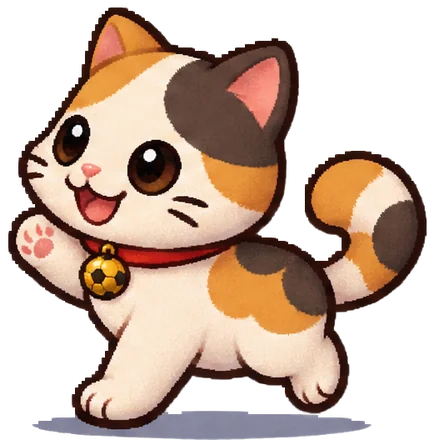
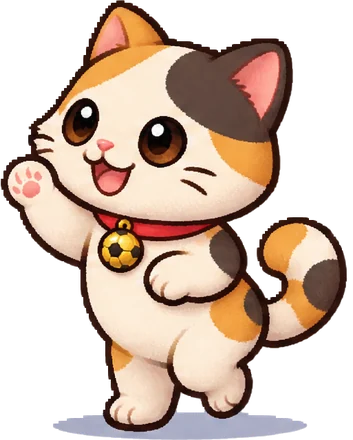
Lenda do Campinho v373: Sortudo em pé (4 patas) e o ∞ das Caneleiras do Infinito

diff --git a/frontend/public/lenda-do-campinho/index.html b/frontend/public/lenda-do-campinho/index.html
@@ -11,8 +11,8 @@
 <link rel="preconnect" href="https://fonts.googleapis.com">
 <link rel="preconnect" href="https://fonts.gstatic.com" crossorigin>
 <link href="https://fonts.googleapis.com/css2?family=Fredoka:wght@500;600;700&family=Nunito:wght@600;700;800&display=swap" rel="stylesheet">
-<link rel="stylesheet" href="css/style.css?v=372">
-<link rel="stylesheet" href="css/inicio.css?v=372">
+<link rel="stylesheet" href="css/style.css?v=373">
+<link rel="stylesheet" href="css/inicio.css?v=373">
 <link rel="icon" href="https://www.educacaogamer.com.br/favicon.png">
 <link rel="manifest" href="manifest.webmanifest">
 <link rel="apple-touch-icon" href="a/icone_192.png">
@@ -158,166 +158,166 @@
   </div>
 </div>
 
-<script src="js/confirma.js?v=372"></script>
-<script src="js/data.js?v=372"></script>
-<script src="js/arte.js?v=372"></script>
-<script src="js/assets.js?v=372"></script>
-<script src="js/world.js?v=372"></script>
-<script src="js/game.js?v=372"></script>
-<script src="js/roupas.js?v=372"></script>
-<script src="js/europa.js?v=372"></script>
-<script src="js/cidades.js?v=372"></script>
-<script src="js/santos_mapa.js?v=372"></script>
-<script src="js/espalha.js?v=372"></script>
-<script src="js/centrinho.js?v=372"></script>
-<script src="js/team.js?v=372"></script>
-<script src="js/copa.js?v=372"></script>
-<script src="js/carreira.js?v=372"></script>
-<script src="js/historia.js?v=372"></script>
-<script src="js/ui.js?v=372"></script>
-<script src="js/penalti.js?v=372"></script>
-<script src="js/bonecos_meta.js?v=372"></script>
-<script src="js/boneco.js?v=372"></script>
-<script src="js/clima.js?v=372"></script>
-<script src="js/itens.js?v=372"></script>
-<script src="js/layout.js?v=372"></script>
-<script src="js/backup.js?v=372"></script>
-<script src="js/minimapa.js?v=372"></script>
-<script src="js/audio.js?v=372"></script>
-<script src="js/jogadas.js?v=372"></script>
-<script src="js/arenas.js?v=372"></script>
-<script src="js/montarias.js?v=372"></script>
-<script src="js/armazem.js?v=372"></script>
-<script src="js/casas.js?v=372"></script>
-<script src="js/celular.js?v=372"></script>
-<script src="js/celular2.js?v=372"></script>
-<script src="js/beta.js?v=372"></script>
-<script src="js/portal.js?v=372"></script>
-<script src="js/nuvem.js?v=372"></script>
-<script src="js/contas.js?v=372"></script><script src="js/sessao_unica.js?v=372"></script>
-<script src="js/protege.js?v=372"></script>
-<script src="js/topo.js?v=372"></script>
-<script src="js/sair.js?v=372"></script>
-<script src="js/lances.js?v=372"></script>
-<script src="js/vocacoes.js?v=372"></script>
-<script src="js/tela.js?v=372"></script>
-<script src="js/agua.js?v=372"></script>
-<script src="js/vento.js?v=372"></script>
-<script src="js/wiki.js?v=372"></script>
-<script src="js/personagens.js?v=372"></script>
-<script src="js/teclas.js?v=372"></script>
-<script src="js/variedade.js?v=372"></script>
-<script src="js/bonecos_meta2.js?v=372"></script>
-<script src="js/bonecos_meta3.js?v=372"></script>
-<script src="js/bonecos_meta4.js?v=372"></script>
-<script src="js/corpos.js?v=372"></script>
-<script src="js/fx.js?v=372"></script>
-<script src="js/cacadas.js?v=372"></script>
-<script src="js/atlantida.js?v=372"></script>
-<script src="js/espaco.js?v=372"></script>
-<script src="js/vale.js?v=372"></script>
-<script src="js/treino.js?v=372"></script>
-<script src="js/cadastro.js?v=372"></script>
-<script src="js/montaria_arte.js?v=372"></script>
-<script src="js/luxo.js?v=372"></script>
-<script src="js/divulgar.js?v=372"></script>
-<script src="js/corrida.js?v=372"></script><script src="js/estadios.js?v=372"></script><script src="js/monumentos.js?v=372"></script><script src="js/ruas.js?v=372"></script><script src="js/ambiente.js?v=372"></script><script src="js/conquistas.js?v=372"></script><script src="js/rastreador.js?v=372"></script><script src="js/alertas.js?v=372"></script><script src="js/ondeachar.js?v=372"></script><script src="js/time_guia.js?v=372"></script><script src="js/jogadas_info.js?v=372"></script><script src="js/dribles_nivel.js?v=372"></script><script src="js/pocoes.js?v=372"></script><script src="js/analisador.js?v=372"></script><script src="js/tarefas.js?v=372"></script><script src="js/diaria.js?v=372"></script><script src="js/avisos.js?v=372"></script><script src="js/saida_trancada.js?v=372"></script><script src="js/cidade_arrumada.js?v=372"></script><script src="js/partida.js?v=372"></script><script src="js/centros_treino.js?v=372"></script><script src="js/grade.js?v=372"></script><script src="js/zona_segura.js?v=372"></script><script src="js/minha_classe.js?v=372"></script>
-<script src="js/app_windows.js?v=372"></script>
-<script src="js/inicio.js?v=372"></script>
-<script src="js/top3.js?v=372"></script>
-<script src="js/gravacao.js?v=372"></script>
-<script src="js/massagistas.js?v=372"></script>
-<script src="js/arquibancadas.js?v=372"></script>
-<script src="js/asas.js?v=372"></script>
-<script src="js/carreira_metas.js?v=372"></script>
-<script src="js/arquetipos.js?v=372"></script>
-<script src="js/magias_adv.js?v=372"></script>
-<script src="js/santos.js?v=372"></script>
-<script src="js/arcos.js?v=372"></script>
-<script src="js/luz.js?v=372"></script>
-<script src="js/clube_mais.js?v=372"></script>
-<script src="js/compacto.js?v=372"></script>
-<script src="js/ajustes_ui.js?v=372"></script>
-<script src="js/volta_v258.js?v=372"></script>
-<script src="js/cidades_vivas.js?v=372"></script>
-<script src="js/cidades_novas.js?v=372"></script>
-<script src="js/dungeons_novas.js?v=372"></script>
-<script src="js/vila_nova.js?v=372"></script>
-<script src="js/brasil_vivo.js?v=372"></script>
-<script src="js/armazem_forja.js?v=372"></script>
-<script src="js/tarefas_loja.js?v=372"></script>
-<script src="js/carreira_jogos.js?v=372"></script>
-<script src="js/carreira_futebol.js?v=372"></script>
-<script src="js/lendas.js?v=372"></script>
-<script src="js/mapa_marca.js?v=372"></script>
-<script src="js/missoes_colecao.js?v=372"></script>
-<script src="js/espaco_novo.js?v=372"></script>
-<script src="js/pontes.js?v=372"></script>
-<script src="js/futebol_dicas.js?v=372"></script>
-<script src="js/visual_itens.js?v=372"></script>
-<script src="js/balanco_xp.js?v=372"></script>
-<script src="js/santos_jogadores.js?v=372"></script>
-<script src="js/pescoco_arte.js?v=372"></script>
-<script src="js/fps.js?v=372"></script>
-<script src="js/adornos.js?v=372"></script>
-<script src="js/adornos2.js?v=372"></script>
-<script src="js/desempenho.js?v=372"></script>
-<script src="js/roupas_tecidos.js?v=372"></script>
-<script src="js/chapeus_arte.js?v=372"></script>
-<script src="js/cacas_calmas.js?v=372"></script>
-<script src="js/viagens_equip.js?v=372"></script>
-<script src="js/bichos_vivos.js?v=372"></script>
-<script src="js/economia_ouro.js?v=372"></script>
-<script src="js/multiverso.js?v=372"></script>
-<script src="js/bichos_malvados.js?v=372"></script>
-<script src="js/torre_infinita.js?v=372"></script>
-<script src="js/torre_desafio.js?v=372"></script>
-<script src="js/xp_alto_nivel.js?v=372"></script>
-<script src="js/carreira_simula.js?v=372"></script>
-<script src="js/celular3.js?v=372"></script>
-<script src="js/graficos.js?v=372"></script>
-<script src="js/treino_fundo.js?v=372"></script>
-<script src="js/aquece.js?v=372"></script>
-<script src="js/memoria_mapas.js?v=372"></script>
-<script src="js/agencia.js?v=372"></script>
-<script src="js/modos_finalizados.js?v=372"></script>
-<script src="js/guardioes_lenda.js?v=372"></script>
-<script src="js/icones_vivos.js?v=372"></script>
-<script src="js/retratos_bichos.js?v=372"></script>
-<script src="js/portas_ima.js?v=372"></script>
-<script src="js/agencia_escritorio.js?v=372"></script>
-<script src="js/agencia_modelo.js?v=372"></script>
-<script src="js/agencia_semana.js?v=372"></script>
-<script src="js/agencia_familia.js?v=372"></script>
-<script src="js/agencia_desenvolvimento.js?v=372"></script>
-<script src="js/agencia_carreira.js?v=372"></script>
-<script src="js/agencia_eventos.js?v=372"></script>
-<script src="js/agencia_reputacao.js?v=372"></script>
-<script src="js/padrao_itens.js?v=372"></script>
-<script src="js/itens_marcas.js?v=372"></script>
-<script src="js/mochilas.js?v=372"></script>
-<script src="js/loot_regioes.js?v=372"></script>
-<script src="js/tela_paineis.js?v=372"></script>
-<script src="js/forja_previa.js?v=372"></script>
-<script src="js/chefes_missoes.js?v=372"></script>
-<script src="js/missoes_org.js?v=372"></script>
-<script src="js/saga_origem.js?v=372"></script>
-<script src="js/jurassico.js?v=372"></script>
-<script src="js/museu.js?v=372"></script>
-<script src="js/missoes_sonhadores.js?v=372"></script>
-<script src="js/historico.js?v=372"></script>
-<script src="js/brilho_refino.js?v=372"></script>
-<script src="js/mascotes.js?v=372"></script>
-<script src="js/cacada_epica.js?v=372"></script>
-<script src="js/carga_rapida.js?v=372"></script>
-<script src="js/fila_avisos.js?v=372"></script>
-<script src="js/objetivo_agora.js?v=372"></script>
-<script src="js/chefes_vivos.js?v=372"></script>
-<script src="js/estatisticas.js?v=372"></script>
-<script src="js/amigos_lenda.js?v=372"></script>
-<script src="js/controle.js?v=372"></script>
-<script src="js/torre_coop.js?v=372"></script>
-<script src="js/arenas_predios.js?v=372"></script>
-<script src="js/versao_nova.js?v=372"></script>
+<script src="js/confirma.js?v=373"></script>
+<script src="js/data.js?v=373"></script>
+<script src="js/arte.js?v=373"></script>
+<script src="js/assets.js?v=373"></script>
+<script src="js/world.js?v=373"></script>
+<script src="js/game.js?v=373"></script>
+<script src="js/roupas.js?v=373"></script>
+<script src="js/europa.js?v=373"></script>
+<script src="js/cidades.js?v=373"></script>
+<script src="js/santos_mapa.js?v=373"></script>
+<script src="js/espalha.js?v=373"></script>
+<script src="js/centrinho.js?v=373"></script>
+<script src="js/team.js?v=373"></script>
+<script src="js/copa.js?v=373"></script>
+<script src="js/carreira.js?v=373"></script>
+<script src="js/historia.js?v=373"></script>
+<script src="js/ui.js?v=373"></script>
+<script src="js/penalti.js?v=373"></script>
+<script src="js/bonecos_meta.js?v=373"></script>
+<script src="js/boneco.js?v=373"></script>
+<script src="js/clima.js?v=373"></script>
+<script src="js/itens.js?v=373"></script>
+<script src="js/layout.js?v=373"></script>
+<script src="js/backup.js?v=373"></script>
+<script src="js/minimapa.js?v=373"></script>
+<script src="js/audio.js?v=373"></script>
+<script src="js/jogadas.js?v=373"></script>
+<script src="js/arenas.js?v=373"></script>
+<script src="js/montarias.js?v=373"></script>
+<script src="js/armazem.js?v=373"></script>
+<script src="js/casas.js?v=373"></script>
+<script src="js/celular.js?v=373"></script>
+<script src="js/celular2.js?v=373"></script>
+<script src="js/beta.js?v=373"></script>
+<script src="js/portal.js?v=373"></script>
+<script src="js/nuvem.js?v=373"></script>
+<script src="js/contas.js?v=373"></script><script src="js/sessao_unica.js?v=373"></script>
+<script src="js/protege.js?v=373"></script>
+<script src="js/topo.js?v=373"></script>
+<script src="js/sair.js?v=373"></script>
+<script src="js/lances.js?v=373"></script>
+<script src="js/vocacoes.js?v=373"></script>
+<script src="js/tela.js?v=373"></script>
+<script src="js/agua.js?v=373"></script>
+<script src="js/vento.js?v=373"></script>
+<script src="js/wiki.js?v=373"></script>
+<script src="js/personagens.js?v=373"></script>
+<script src="js/teclas.js?v=373"></script>
+<script src="js/variedade.js?v=373"></script>
+<script src="js/bonecos_meta2.js?v=373"></script>
+<script src="js/bonecos_meta3.js?v=373"></script>
+<script src="js/bonecos_meta4.js?v=373"></script>
+<script src="js/corpos.js?v=373"></script>
+<script src="js/fx.js?v=373"></script>
+<script src="js/cacadas.js?v=373"></script>
+<script src="js/atlantida.js?v=373"></script>
+<script src="js/espaco.js?v=373"></script>
+<script src="js/vale.js?v=373"></script>
+<script src="js/treino.js?v=373"></script>
+<script src="js/cadastro.js?v=373"></script>
+<script src="js/montaria_arte.js?v=373"></script>
+<script src="js/luxo.js?v=373"></script>
+<script src="js/divulgar.js?v=373"></script>
+<script src="js/corrida.js?v=373"></script><script src="js/estadios.js?v=373"></script><script src="js/monumentos.js?v=373"></script><script src="js/ruas.js?v=373"></script><script src="js/ambiente.js?v=373"></script><script src="js/conquistas.js?v=373"></script><script src="js/rastreador.js?v=373"></script><script src="js/alertas.js?v=373"></script><script src="js/ondeachar.js?v=373"></script><script src="js/time_guia.js?v=373"></script><script src="js/jogadas_info.js?v=373"></script><script src="js/dribles_nivel.js?v=373"></script><script src="js/pocoes.js?v=373"></script><script src="js/analisador.js?v=373"></script><script src="js/tarefas.js?v=373"></script><script src="js/diaria.js?v=373"></script><script src="js/avisos.js?v=373"></script><script src="js/saida_trancada.js?v=373"></script><script src="js/cidade_arrumada.js?v=373"></script><script src="js/partida.js?v=373"></script><script src="js/centros_treino.js?v=373"></script><script src="js/grade.js?v=373"></script><script src="js/zona_segura.js?v=373"></script><script src="js/minha_classe.js?v=373"></script>
+<script src="js/app_windows.js?v=373"></script>
+<script src="js/inicio.js?v=373"></script>
+<script src="js/top3.js?v=373"></script>
+<script src="js/gravacao.js?v=373"></script>
+<script src="js/massagistas.js?v=373"></script>
+<script src="js/arquibancadas.js?v=373"></script>
+<script src="js/asas.js?v=373"></script>
+<script src="js/carreira_metas.js?v=373"></script>
+<script src="js/arquetipos.js?v=373"></script>
+<script src="js/magias_adv.js?v=373"></script>
+<script src="js/santos.js?v=373"></script>
+<script src="js/arcos.js?v=373"></script>
+<script src="js/luz.js?v=373"></script>
+<script src="js/clube_mais.js?v=373"></script>
+<script src="js/compacto.js?v=373"></script>
+<script src="js/ajustes_ui.js?v=373"></script>
+<script src="js/volta_v258.js?v=373"></script>
+<script src="js/cidades_vivas.js?v=373"></script>
+<script src="js/cidades_novas.js?v=373"></script>
+<script src="js/dungeons_novas.js?v=373"></script>
+<script src="js/vila_nova.js?v=373"></script>
+<script src="js/brasil_vivo.js?v=373"></script>
+<script src="js/armazem_forja.js?v=373"></script>
+<script src="js/tarefas_loja.js?v=373"></script>
+<script src="js/carreira_jogos.js?v=373"></script>
+<script src="js/carreira_futebol.js?v=373"></script>
+<script src="js/lendas.js?v=373"></script>
+<script src="js/mapa_marca.js?v=373"></script>
+<script src="js/missoes_colecao.js?v=373"></script>
+<script src="js/espaco_novo.js?v=373"></script>
+<script src="js/pontes.js?v=373"></script>
+<script src="js/futebol_dicas.js?v=373"></script>
+<script src="js/visual_itens.js?v=373"></script>
+<script src="js/balanco_xp.js?v=373"></script>
+<script src="js/santos_jogadores.js?v=373"></script>
+<script src="js/pescoco_arte.js?v=373"></script>
+<script src="js/fps.js?v=373"></script>
+<script src="js/adornos.js?v=373"></script>
+<script src="js/adornos2.js?v=373"></script>
+<script src="js/desempenho.js?v=373"></script>
+<script src="js/roupas_tecidos.js?v=373"></script>
+<script src="js/chapeus_arte.js?v=373"></script>
+<script src="js/cacas_calmas.js?v=373"></script>
+<script src="js/viagens_equip.js?v=373"></script>
+<script src="js/bichos_vivos.js?v=373"></script>
+<script src="js/economia_ouro.js?v=373"></script>
+<script src="js/multiverso.js?v=373"></script>
+<script src="js/bichos_malvados.js?v=373"></script>
+<script src="js/torre_infinita.js?v=373"></script>
+<script src="js/torre_desafio.js?v=373"></script>
+<script src="js/xp_alto_nivel.js?v=373"></script>
+<script src="js/carreira_simula.js?v=373"></script>
+<script src="js/celular3.js?v=373"></script>
+<script src="js/graficos.js?v=373"></script>
+<script src="js/treino_fundo.js?v=373"></script>
+<script src="js/aquece.js?v=373"></script>
+<script src="js/memoria_mapas.js?v=373"></script>
+<script src="js/agencia.js?v=373"></script>
+<script src="js/modos_finalizados.js?v=373"></script>
+<script src="js/guardioes_lenda.js?v=373"></script>
+<script src="js/icones_vivos.js?v=373"></script>
+<script src="js/retratos_bichos.js?v=373"></script>
+<script src="js/portas_ima.js?v=373"></script>
+<script src="js/agencia_escritorio.js?v=373"></script>
+<script src="js/agencia_modelo.js?v=373"></script>
+<script src="js/agencia_semana.js?v=373"></script>
+<script src="js/agencia_familia.js?v=373"></script>
+<script src="js/agencia_desenvolvimento.js?v=373"></script>
+<script src="js/agencia_carreira.js?v=373"></script>
+<script src="js/agencia_eventos.js?v=373"></script>
+<script src="js/agencia_reputacao.js?v=373"></script>
+<script src="js/padrao_itens.js?v=373"></script>
+<script src="js/itens_marcas.js?v=373"></script>
+<script src="js/mochilas.js?v=373"></script>
+<script src="js/loot_regioes.js?v=373"></script>
+<script src="js/tela_paineis.js?v=373"></script>
+<script src="js/forja_previa.js?v=373"></script>
+<script src="js/chefes_missoes.js?v=373"></script>
+<script src="js/missoes_org.js?v=373"></script>
+<script src="js/saga_origem.js?v=373"></script>
+<script src="js/jurassico.js?v=373"></script>
+<script src="js/museu.js?v=373"></script>
+<script src="js/missoes_sonhadores.js?v=373"></script>
+<script src="js/historico.js?v=373"></script>
+<script src="js/brilho_refino.js?v=373"></script>
+<script src="js/mascotes.js?v=373"></script>
+<script src="js/cacada_epica.js?v=373"></script>
+<script src="js/carga_rapida.js?v=373"></script>
+<script src="js/fila_avisos.js?v=373"></script>
+<script src="js/objetivo_agora.js?v=373"></script>
+<script src="js/chefes_vivos.js?v=373"></script>
+<script src="js/estatisticas.js?v=373"></script>
+<script src="js/amigos_lenda.js?v=373"></script>
+<script src="js/controle.js?v=373"></script>
+<script src="js/torre_coop.js?v=373"></script>
+<script src="js/arenas_predios.js?v=373"></script>
+<script src="js/versao_nova.js?v=373"></script>
 </body>
 </html>

diff --git a/frontend/public/lenda-do-campinho/js/brilho_refino.js b/frontend/public/lenda-do-campinho/js/brilho_refino.js
@@ -92,7 +92,37 @@
     if (r >= 7) { const per = r >= 10 ? 900 : r === 9 ? 1400 : r === 8 ? 2000 : 2800, k = (t % per) / per; if (k < 0.35) { ctx.globalCompositeOperation = 'lighter'; ctx.globalAlpha = 0.7 * Math.sin(k / 0.35 * Math.PI); ctx.fillStyle = '#ffffff'; ctx.beginPath(); ctx.ellipse(tam * (0.2 + k * 2), -tam * 0.05, tam * 0.14, tam * 0.08, 0, 0, 7); ctx.fill(); } }
     ctx.restore();
   }
+  // as pernas na altura da canela (segmentos de pixels sólidos entre 84,5% e 88,5% da altura: só ali as pernas se separam) — por canvas
+  const CANELA = new WeakMap();
+  function canelas(c) {
+    let r = CANELA.get(c); if (r) return r;
+    const k = corpo(c), cx = caixa(c), H = cx.y1 - cx.y0 + 1, ya = Math.floor(cx.y0 + H * 0.845), yb = Math.floor(cx.y0 + H * 0.885), W = c.width; let seg = [];
+    try {
+      const d = k.getContext('2d').getImageData(0, ya, W, yb - ya + 1).data, rows = yb - ya + 1, col = new Uint16Array(W);
+      for (let y = 0; y < rows; y++) for (let x = 0; x < W; x++) if (d[(y * W + x) * 4 + 3] > 170) col[x]++;
+      let ini = -1; for (let x = 0; x <= W; x++) { if (x < W && col[x] >= rows * 0.5) { if (ini < 0) ini = x; } else if (ini >= 0) { if (x - ini >= 2) seg.push([ini, x - 1]); ini = -1; } }
+    } catch (e) { }
+    r = { seg, y: (ya + yb) / 2 }; CANELA.set(c, r); return r;
+  }
+  // o símbolo ∞, desenhado com uma linha só
+  function infinito(ctx, x, y, tam, r, t, fase) {
+    const brilho = r >= 9 ? (r >= 10 ? 1 : 0.55) : 0, pulso = 0.5 + 0.5 * Math.sin(t / 380 + fase);
+    const traco = () => { ctx.beginPath(); for (let i = 0; i <= 40; i++) { const a = i / 40 * Math.PI * 2, d = 1 + Math.sin(a) ** 2; ctx.lineTo(x + tam * Math.cos(a) / d, y + tam * Math.sin(a) * Math.cos(a) / d); } ctx.closePath(); };
+    ctx.save(); ctx.lineCap = 'round'; ctx.lineJoin = 'round';
+    if (brilho) { ctx.globalCompositeOperation = 'lighter'; ctx.strokeStyle = `rgba(120,220,255,${(0.35 + 0.35 * pulso) * brilho})`; ctx.lineWidth = tam * 0.55; traco(); ctx.stroke(); ctx.globalCompositeOperation = 'source-over'; }
+    ctx.strokeStyle = 'rgba(10,40,80,0.85)'; ctx.lineWidth = tam * 0.34; traco(); ctx.stroke(); // contorno escuro (aparece em qualquer meião)
+    ctx.strokeStyle = r >= 8 ? (r >= 10 ? '#e8fbff' : '#9ae8ff') : '#7ac8f0'; ctx.lineWidth = tam * 0.18; traco(); ctx.stroke();
+    if (r >= 7) { const per = r >= 10 ? 900 : r === 9 ? 1400 : r === 8 ? 2000 : 2800, k = ((t + fase * 300) % per) / per; if (k < 0.4) { const a = k / 0.4 * Math.PI * 2, d = 1 + Math.sin(a) ** 2; ctx.globalCompositeOperation = 'lighter'; ctx.fillStyle = '#ffffff'; ctx.globalAlpha = 0.9 * Math.sin(k / 0.4 * Math.PI); ctx.beginPath(); ctx.arc(x + tam * Math.cos(a) / d, y + tam * Math.sin(a) * Math.cos(a) / d, tam * 0.2, 0, 7); ctx.fill(); } }
+    ctx.restore();
+  }
   const MARCA = {
+    // 🦵 Caneleiras do Infinito: um ∞ azul-gelo em cada canela; no +7 em diante uma luz percorre o ∞, no +9/+10 ele brilha
+    caneleira_infinito(ctx, comp, w, h, vista, e, r, t) {
+      const c = comp.c, C = canelas(c); if (!C.seg.length) return;
+      const sx = w / c.width, Y = -h + C.y * (h / c.height), tam = h * 0.032;
+      const pernas = vista === 'lado' ? C.seg.slice(0, 2) : [C.seg[0], C.seg[C.seg.length - 1]].filter((v, i, a) => i === 0 || v !== a[0]);
+      pernas.forEach(([a, b], i) => infinito(ctx, -w / 2 + (a + b) / 2 * sx, Y, tam, r, t, i * 1.7));
+    },
     // 👟 Chuteiras dos Deuses: asinhas nos calcanhares (como as sandálias aladas). Parado batem devagar; correndo, rápido.
     chuteira_deuses(ctx, comp, w, h, vista, e, r, t) {
       const c = comp.c, P = pes(c); if (!P.seg.length) return;

diff --git a/frontend/public/lenda-do-campinho/js/mascotes.js b/frontend/public/lenda-do-campinho/js/mascotes.js
@@ -46,6 +46,8 @@ function mascBonus(tipo) {
 }
 const pct = v => `${Math.round(v * 1000) / 10}%`.replace('.', ',');
 // arte e tamanho da fase (usados no desenho do mascote em adornos2.js)
+// v373 (dono: "o gato adulto está com 5 patas"): filhote e adulto do Sortudo redesenhados EM PÉ (4 patas) — versão nova da arte
+if (typeof ASSET_VER !== 'undefined') for (const suf of ['_f', '_a']) for (let k = 1; k <= 4; k++) ASSET_VER[`pet_sortudo${suf}_c${k}`] = 373;
 const PET_ARTE_BASE = { caramelo: 'pet_caramelo2' };
 window.petArte = id => { if (!MASC[id] || !G.save) return null; const f = mascFase(mascDados(id).nv); return f.suf ? `pet_${id}${f.suf}` : (PET_ARTE_BASE[id] || `pet_${id}`); };
 window.petEscala = id => { if (!MASC[id] || !G.save) return 1; return mascFase(mascDados(id).nv).esc; };
